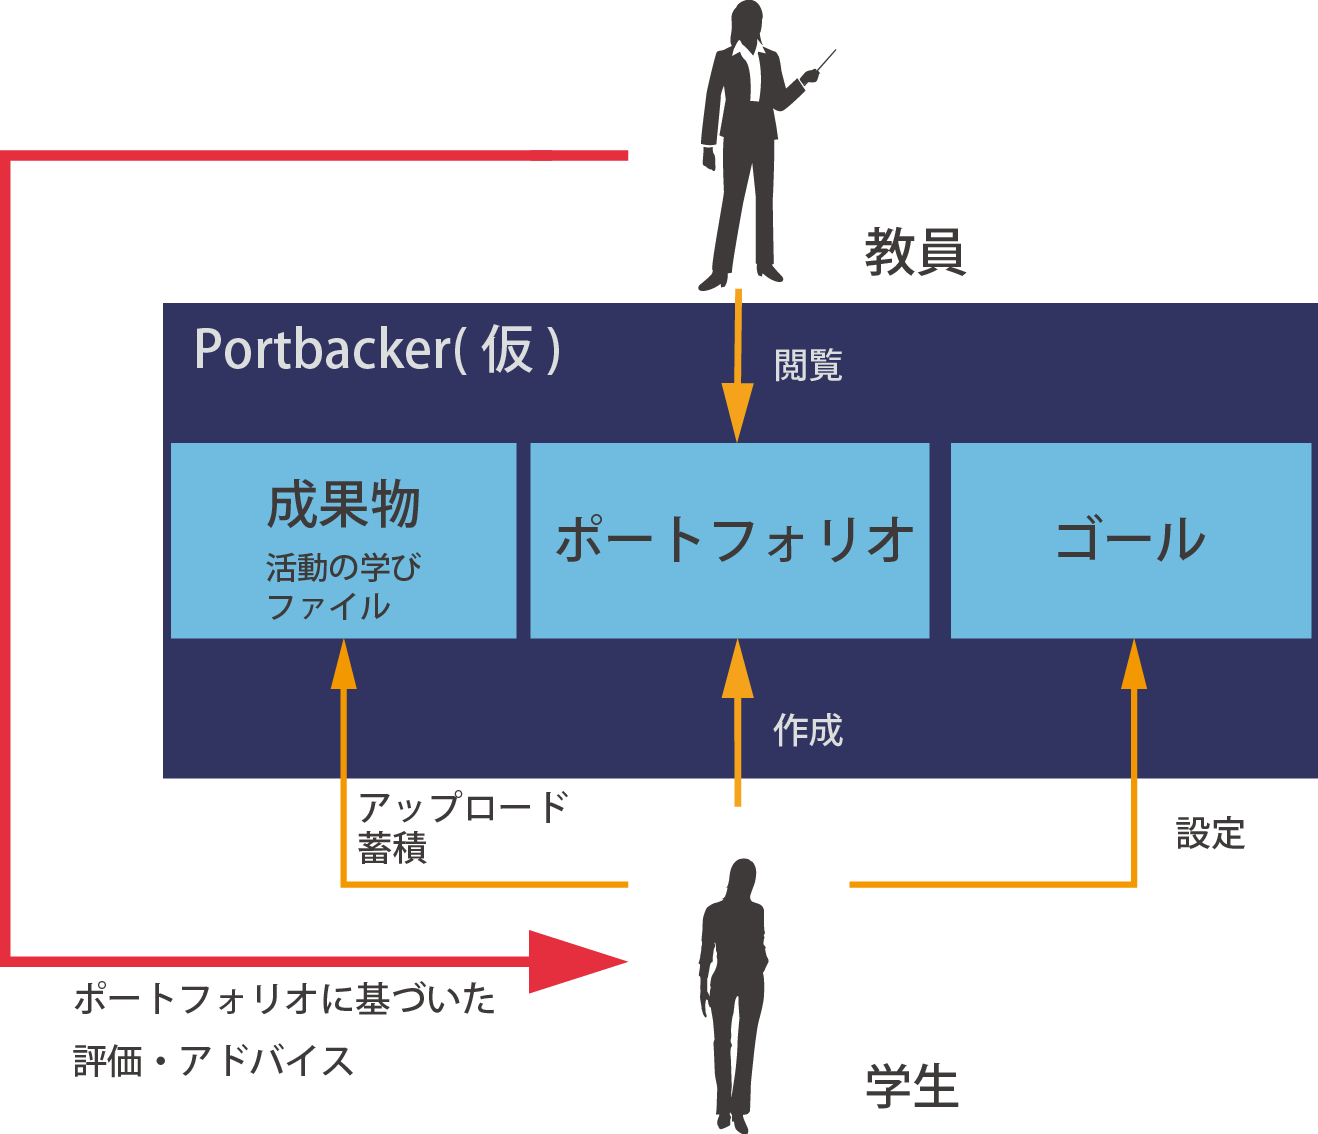
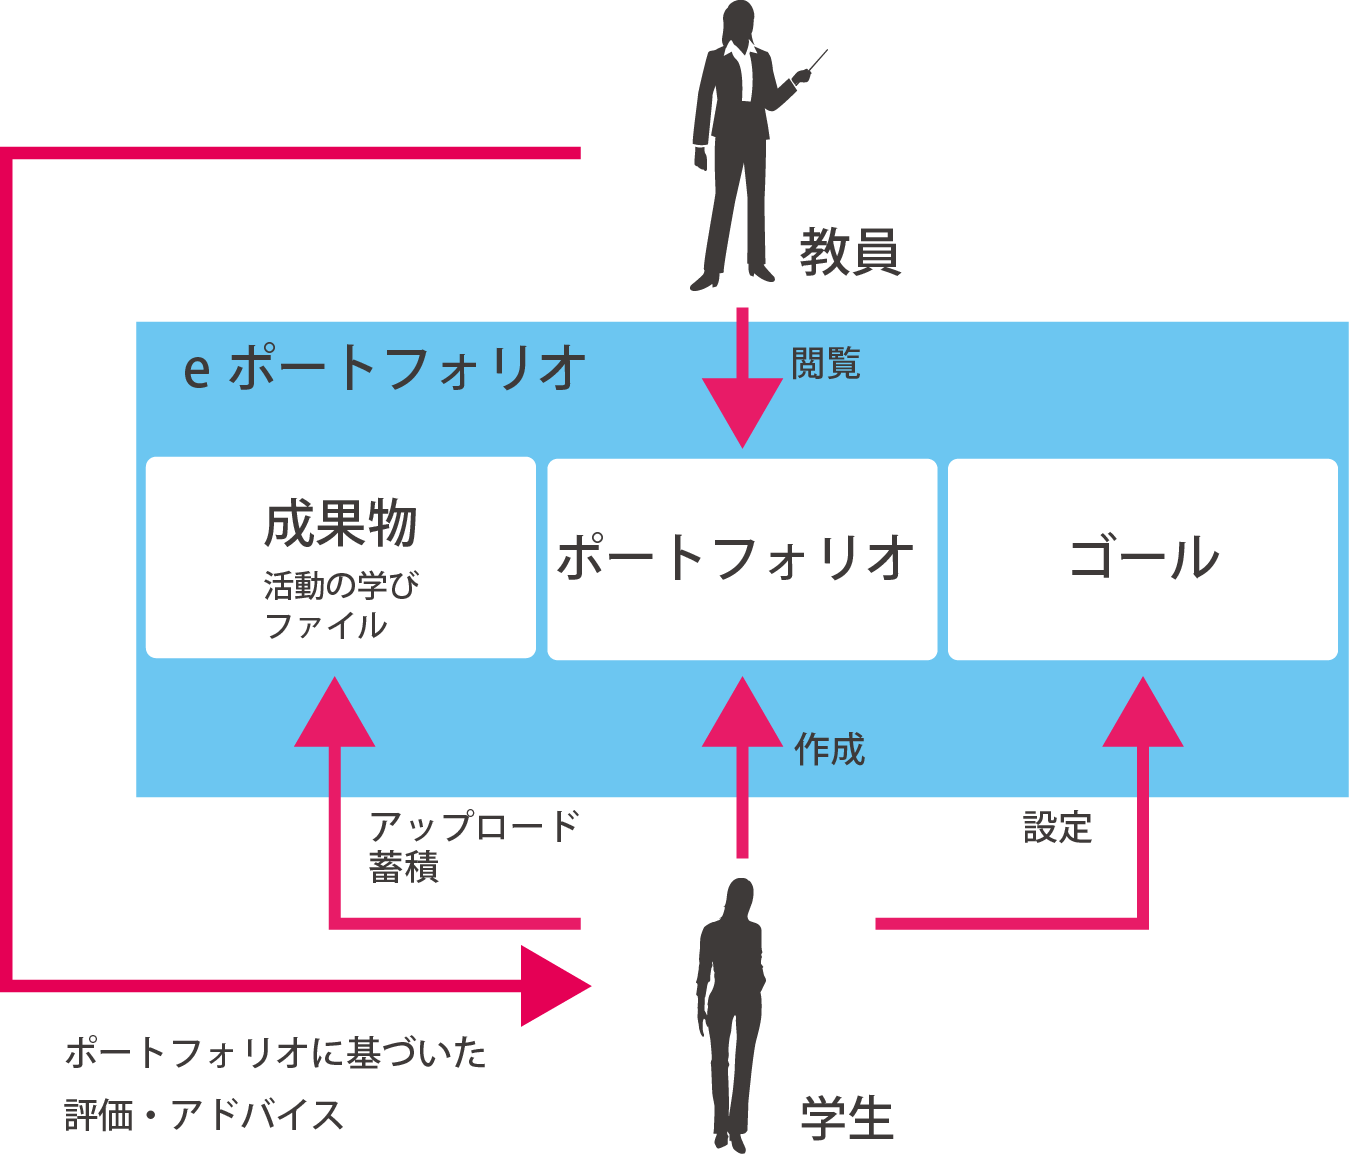
具体例を編集

diff --git a/midterm/mainslide.html b/midterm/mainslide.html
@@ -114,7 +114,7 @@
 <section class="slide">
 	<h2>問題</h2>
 	<ul class="ula">
-		<li>受動的な学習の中で、大学ではMoodle<sup>*</sup>を導入している。
+		<li>受動的な学習の中で、大学ではMoodle<sup>*</sup>を<br>導入している。
 			<br>→学生目線での学習支援はしていない。</li>
 		<li>能動的な学習には支援するシステムが無い。<br><font color="red">教員は学生に合わせた指導ができない。</font></li>
 	</ul>
@@ -126,11 +126,11 @@
 <section class="slide">
 	<h2>教育系の目的</h2>
 	<ul class="ula">
-		<li>高度ICT演習における学生の<font color="red">学習の振り返り</font><sup>*</sup>及び<br>担当教員の<font color="red">指導</font>を支援する</li>
+		<li>高度ICT演習における学生の<br><font color="red">学習の振り返り</font><sup>*</sup>及び担当教員の<font color="red">指導</font>を<br>支援する</li>
 		<li>担当教員と学生からeポートフォリオシステムの要件を収集する</li>
 	</ul>
 	<ul class="ula" style="font-size: 30px; margin-left: 3em;">
-		<li><sup>*</sup>学習の振り返り : <br>過去の活動を見返して、良かったことと悪かったことを正しく認識する。また、他者からのフィードバックにより新たな気付きなどを得ること</li>
+		<li><sup>*</sup>学習の振り返り : <br>過去の活動を見返して、良かったことと悪かったことを<br>正しく認識する。また、他者からのフィードバックにより<br>新たな気付きなどを得ること</li>
 	</ul>	
 </section>
 
@@ -152,15 +152,15 @@
 <section class="slide">
 	<h2>ヒアリング(5月末)</h2>
 	<ul class="ula" style="color:#1a1a1a; font-size:150%;">
-		<li>ステークホルダーである高度ICT演習の担当教員に、<br>eポートフォリオシステムについての会議を開きました</li>
+		<li>ステークホルダーである高度ICT演習の<br>担当教員に、eポートフォリオシステムに<br>ついての会議を開きました</li>
 	</ul>
 </section>
 
 <section class="slide">
 	<h2>ヒアリング結果</h2>
 	<ul style="color:#1a1a1a; font-size:150%; margin-top: -1em;">
-		<li><font color="red">高度ICT演習向けのシステム</font>を開発して欲しい</li>
-		<li>PDCAサイクルを回せるようにして欲しい</li>
+		<li><font color="red">高度ICT演習向けのシステム</font>を開発して<br>欲しい</li>
+		<li>PDCAサイクルを回せるようにして<br>欲しい</li>
 		<li>動くシステムを定期的に見せて欲しい</li>
 		<li><font color="red">高度ICT演習向けのシステム</font>を開発して<br>欲しい</li>
 	</ul>
@@ -172,31 +172,44 @@
 </section>
 
 <section class="slide">
-	<h2>具体例</h2>
-		<br>
-	<table width="1200" height="200" style="color:#000; font-size:100%; margin-left: 7%; margin-top: -2em;">
+	<h2>具体例(1/2)</h2>
+	<table width="1200" height="200" style="color:#1a1a1a; font-size:150%; margin-left: 7%; margin-top: -0.8em;">
 		<colgroup span="3" width="100" height="100"> 
-			<td width="50" height="50">plan</td>
-			<td width="700">ポートフォリオシステムとデータベースを連携させる</td>
+			<td width="140" height="100">&#9312; plan</td>
+			<td width="700">ポートフォリオシステムと<br>データベースを連携させる</td>
 		</tr>
 		<tr>
-			<td width="50" height="80">do</td>
-			<td width="700">データベースに関するドキュメントを読んでソースコードを<br>作成し、メンバーとの情報共有のためにドキュメントを残す</td>
+			<td><br></td>
+		</tr>		
+		<tr>
+			<td width="140" height="100">&#9313; do</td>
+			<td width="700" height="100">データベースに関するドキュメント<br>を読んでソースコードを作成し、<br>メンバーとの情報共有のために<br>ドキュメントを蓄積する</td>
 		</tr>
 		<tr>
-			<td width="50" height="80">check</td>
-			<td width="700">参考にしたwebページのURLや生成されたドキュメントを<br>
-				元にポートフォリオを作成する</td>
+			<td><br></td>
 		</tr>
 		<tr>
-			<td width="50" height="80">action</td>
-			<td width="700">先生からデータ構造をドキュメント化したのかと<br>
-				フィードバックをもらう</td>
-		</tr>
+			<td width="140" height="100">&#9314; check</td>
+			<td width="700">参考にしたwebページのURLや<br>蓄積されたドキュメントを元に<br>ポートフォリオを作成する
+			</td>
+		</tr>	
 	</table>
-	<ul Class="t_slide" style="font-size: 100%;">
+</section>
+
+<section class="slide">
+	<h2>具体例(2/2)</h2>
+	<table width="1200" height="200" style="color:#1a1a1a; font-size:150%; margin-left: 7%; margin-top: -0.8em;">
+		<colgroup span="3" width="100" height="100"> 
+			<td width="140" height="100">&#9315; action</td>
+			<td width="700">先生からデータ構造を<br>ドキュメント化したのかと<br>フィードバックをもらう</td>
+		</tr>
+		<tr>
+			<td><br></td>
+		</tr>
+	</table>	
+	<ul class="ula">
 		<li>新しいplan</li>
-		<li>先生からのフィードバックをふまえて、今度は扱うデータベースの<br>データ構造をメンバー全員で考えてドキュメント化する</li> 
+		<li style="margin-left: 1em;">先生からのフィードバックをふまえて、<br>今度は扱うデータベースのデータ構造を<br>メンバー全員で考えてドキュメント化する</li>
 	</ul>
 </section>
 
@@ -233,7 +246,7 @@
 
 <section class="slide">
 	<h2>システムの構成図</h2>
-	<img src="img/system_zu_outline.png" width="100%" height="100%">
+	<img src="img/system.png" width="100%" height="100%">
 </section>
 
 <section class="slide">
